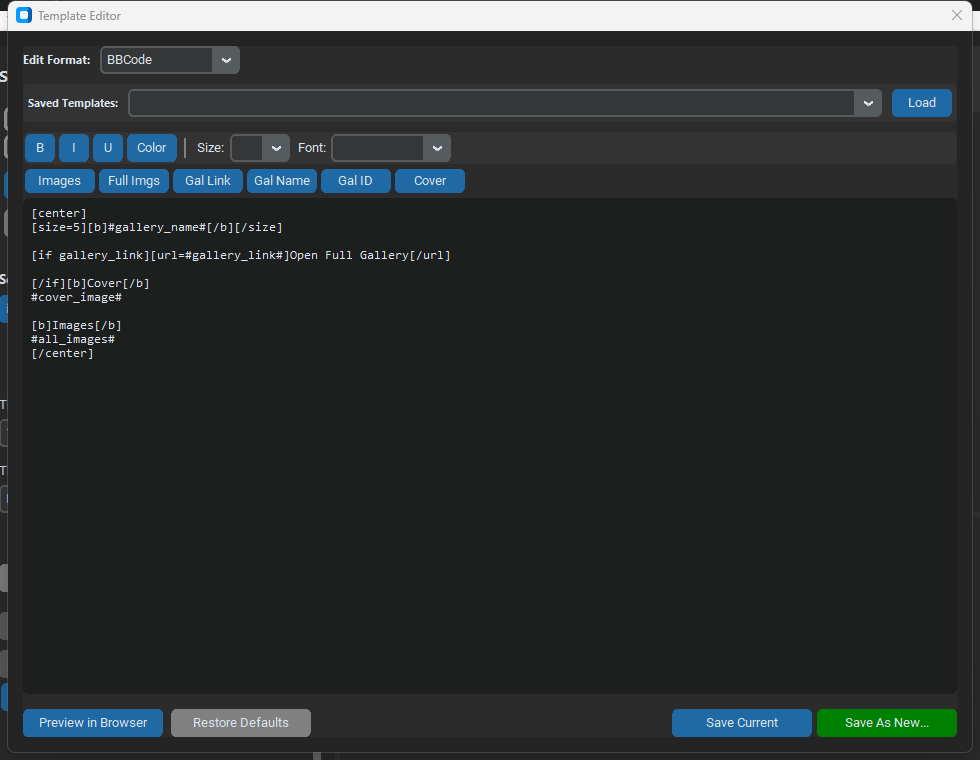
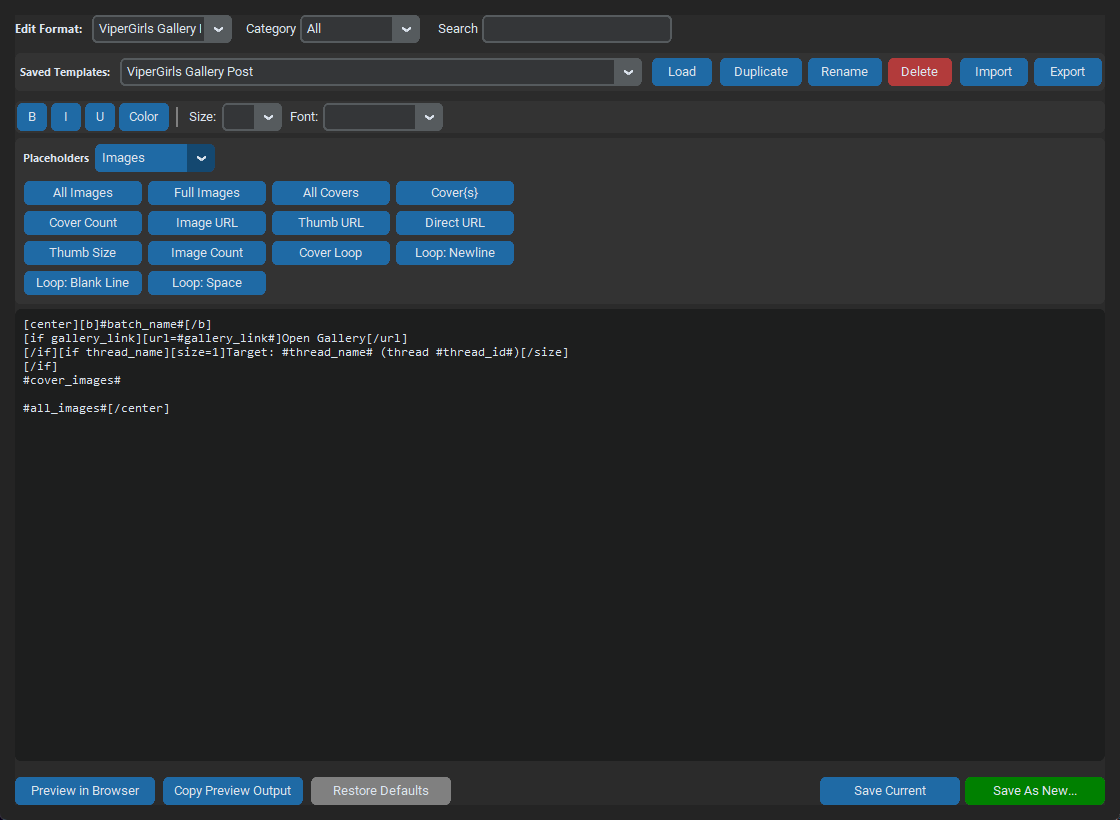
Refresh docs: archive history & release guide
Consolidate and refresh documentation: convert docs/history/DOCUMENTATION.md into a brief historical index and simplify docs/history/README.md to point to current docs; update docs/README.md to note the refreshed Template Editor screenshot; replace the template-editor-v140.png asset with an updated screenshot and adjust its alt text in README.md. Also update docs/releases/RELEASE_PROCESS.md to use placeholder variables (X.Y.Z / YYYY-MM-DD) and modernize the release commit/tag examples. A pytest cache nodeids file was added (test metadata).

Changed region(s): [[0.0, 0.0, 1.0, 0.5145], [0.0, 0.7263, 0.4286, 1.0], [0.6735, 0.9079, 1.0, 0.9987]]

diff --git a/docs/history/README.md b/docs/history/README.md
@@ -1,110 +1,74 @@
 # Documentation Archive
 
-This directory contains historical documentation that provides context about the project's development but is no longer part of active documentation.
+This directory contains historical documentation from earlier development phases. These files are preserved for context, but they are not current user or contributor guidance.
 
-**Archived**: 2026-01-10
-**Reason**: Documentation consolidation to improve maintainability and reduce information overload
+- **Archived:** 2026-01-10
+- **Archive reviewed:** 2026-06-21
+- **Current documentation index:** [docs/README.md](../README.md)
 
----
+## Current Docs To Use Instead
+
+| Need | Current document |
+| --- | --- |
+| Install or use the app | [README.md](../../README.md) |
+| Full user walkthrough | [User Tutorial](../guides/USER_TUTORIAL.md) |
+| Current architecture | [ARCHITECTURE.md](../../ARCHITECTURE.md) |
+| Contributing | [CONTRIBUTING.md](../../CONTRIBUTING.md) |
+| Create or maintain plugins | [Plugin Creation Guide](../guides/PLUGIN_CREATION_GUIDE.md) |
+| Plugin settings schemas | [Schema Plugin Guide](../guides/SCHEMA_PLUGIN_GUIDE.md) |
+| Build/package troubleshooting | [Build Troubleshooting](../guides/BUILD_TROUBLESHOOTING.md) |
+| Release process | [Release Process](../releases/RELEASE_PROCESS.md) |
+| Current change history | [CHANGELOG.md](../../CHANGELOG.md) |
+
+`REMAINING_ISSUES.md` is retained at the repository root as an older tracker/status document. Treat active GitHub issues, pull requests, and `CHANGELOG.md` as the current source of truth for ongoing work.
 
 ## Archived Documents
 
 ### Phase Implementation Summaries
-Historical records of the 6 implementation phases:
-- **PHASE1_IMPLEMENTATION_SUMMARY.md** - Schema-based plugin UI implementation
-- **PHASE2_METADATA_SYSTEM.md** - Plugin metadata system
-- **PHASE3_AUTO_DISCOVERY.md** - Automatic plugin discovery
-- **PHASE4_STANDARD_CONFIG_KEYS.md** - Configuration standardization
-- **PHASE5_HELPER_UTILITIES.md** - Helper function implementations
-- **PHASE6_TESTING_FRAMEWORK.md** - Testing framework setup
+
+- [PHASE1_IMPLEMENTATION_SUMMARY.md](PHASE1_IMPLEMENTATION_SUMMARY.md)
+- [PHASE2_METADATA_SYSTEM.md](PHASE2_METADATA_SYSTEM.md)
+- [PHASE3_AUTO_DISCOVERY.md](PHASE3_AUTO_DISCOVERY.md)
+- [PHASE4_STANDARD_CONFIG_KEYS.md](PHASE4_STANDARD_CONFIG_KEYS.md)
+- [PHASE5_HELPER_UTILITIES.md](PHASE5_HELPER_UTILITIES.md)
+- [PHASE6_TESTING_FRAMEWORK.md](PHASE6_TESTING_FRAMEWORK.md)
 
 ### Analysis Documents
-Deep-dive technical analyses from the development process:
-- **PLUGIN_ARCHITECTURE_ANALYSIS.md** - Detailed plugin system analysis (1026 lines)
-- **CONFIG_KEY_ANALYSIS.md** - Configuration key standardization analysis
-- **PHASE5_PATTERN_ANALYSIS.md** - Code pattern analysis
 
-### Release & PR Documents
-One-time release and pull request documentation:
-- **RELEASE_PREPARATION_SUMMARY.md** - v1.0.0 release preparation
-- **PR_DESCRIPTION.md** - Historical PR description
-- **PR_SUBMISSION_SUMMARY.md** - PR submission guide
-- **BUILD_VERIFICATION_REPORT.md** - Build verification for release
+- [PLUGIN_ARCHITECTURE_ANALYSIS.md](PLUGIN_ARCHITECTURE_ANALYSIS.md)
+- [CONFIG_KEY_ANALYSIS.md](CONFIG_KEY_ANALYSIS.md)
+- [PHASE5_PATTERN_ANALYSIS.md](PHASE5_PATTERN_ANALYSIS.md)
+- [IMPLEMENTATION_ANALYSIS.md](IMPLEMENTATION_ANALYSIS.md)
+- [CODE_REVIEW_VALIDATION.md](CODE_REVIEW_VALIDATION.md)
+
+### Release And Pull Request Documents
+
+- [RELEASE_PREPARATION_SUMMARY.md](RELEASE_PREPARATION_SUMMARY.md)
+- [PR_DESCRIPTION.md](PR_DESCRIPTION.md)
+- [PR_SUBMISSION_SUMMARY.md](PR_SUBMISSION_SUMMARY.md)
+- [BUILD_VERIFICATION_REPORT.md](BUILD_VERIFICATION_REPORT.md)
 
 ### Testing Documentation
-Historical testing documentation:
-- **MOCK_UPLOAD_TESTING.md** - Upload testing procedures
 
-### Critical Fixes
-Documentation of major bug fixes:
-- **STDERR_DEADLOCK_FIX.md** - Resolution of stderr pipe deadlock
-- **CRITICAL_FIX_UPLOAD_DEADLOCK.md** - Upload worker pool deadlock fix
-- **REFACTORING_PLAN.md** - Major refactoring strategy
+- [MOCK_UPLOAD_TESTING.md](MOCK_UPLOAD_TESTING.md)
+- [TEST_RESULTS.md](TEST_RESULTS.md)
 
----
+### Critical Fixes And Refactoring Notes
 
-## Why These Were Archived
+- [STDERR_DEADLOCK_FIX.md](STDERR_DEADLOCK_FIX.md)
+- [CRITICAL_FIX_UPLOAD_DEADLOCK.md](CRITICAL_FIX_UPLOAD_DEADLOCK.md)
+- [DRAG_DROP_FIX_SUMMARY.md](DRAG_DROP_FIX_SUMMARY.md)
+- [REFACTORING_PLAN.md](REFACTORING_PLAN.md)
+- [IMPROVEMENTS.md](IMPROVEMENTS.md)
+- [FEATURES.md](FEATURES.md)
+- [PROJECT_STATUS.md](PROJECT_STATUS.md)
 
-### Historical Context
-These documents provided valuable context during active development but are no longer necessary for:
-- New contributors getting started
-- Users installing and using the application
-- Developers creating new plugins
-- Maintainers making releases
+### Obsolete Index
 
-### Information in Active Docs
-The key information from these documents has been consolidated into:
-- **[ARCHITECTURE.md](../../ARCHITECTURE.md)** - Current architecture (includes v2.4.0 migration status)
-- **[README.md](../../README.md)** - Complete project overview and current state
-- **[PROJECT_STATUS.md](../../PROJECT_STATUS.md)** - Current project health
-- **[REMAINING_ISSUES.md](../../REMAINING_ISSUES.md)** - Technical debt tracker
+- [DOCUMENTATION.md](DOCUMENTATION.md) is an obsolete v1.0-era documentation index kept only as a redirect for old links.
 
-### Documentation Philosophy
-We follow these principles:
-1. **Single Source of Truth** - Avoid duplicating information
-2. **Maintainability** - Fewer docs = easier to keep current
-3. **Discoverability** - Clear navigation via DOCUMENTATION.md
-4. **Historical Preservation** - Archive rather than delete
+## Why These Files Are Archived
 
----
+These documents captured useful context during active development, but many contain old version numbers, old coverage values, old repository names, old plugin registration advice, or old build assumptions. Keeping them here preserves the history without making users or contributors sort through stale guidance.
 
-## Should You Read These?
-
-### ✅ Yes, if you want to:
-- Understand the historical evolution of the architecture
-- Learn about specific problems that were solved during development
-- Research why certain design decisions were made
-- Write a blog post or case study about the project
-
-### ❌ No, if you want to:
-- Get started as a contributor → See [CONTRIBUTING.md](../../CONTRIBUTING.md)
-- Create a plugin → See [PLUGIN_CREATION_GUIDE.md](../../PLUGIN_CREATION_GUIDE.md)
-- Understand current architecture → See [ARCHITECTURE.md](../../ARCHITECTURE.md)
-- Install the application → See [README.md](../../README.md)
-
----
-
-## Document Retention Policy
-
-### These documents are:
-- ✅ Preserved in git history
-- ✅ Still accessible via the repository
-- ✅ Available for reference when needed
-- ✅ No longer cluttering the root directory
-
-### We will NOT delete them because:
-- They provide valuable historical context
-- They document important architectural decisions
-- They explain problem-solving approaches
-- They may be useful for future similar projects
-
----
-
-**For current documentation, see**: [DOCUMENTATION.md](../../DOCUMENTATION.md)
-
-**For project status, see**: [PROJECT_STATUS.md](../../PROJECT_STATUS.md)
-
----
-
-*Archived: 2026-01-10*
-*Maintained by: conniecombs*
+Use this archive when researching why a design changed, how an old bug was fixed, or what earlier implementation phases looked like. For current behavior, use the active docs listed at the top of this file.

diff --git a/docs/history/DOCUMENTATION.md b/docs/history/DOCUMENTATION.md
@@ -1,151 +1,15 @@
-# Documentation Index
+# Historical Documentation Index
 
-**Product Version**: v1.0.0
-**Architecture Version**: v2.4.0
-**Last Updated**: 2026-01-10
+This was the v1.0-era documentation index. It is obsolete and is kept only so old links do not break.
 
-Welcome to Connie's Uploader Ultimate documentation! This index helps you navigate all available documentation.
+Use the current documentation instead:
 
----
+- [Documentation Index](../README.md)
+- [README](../../README.md)
+- [Architecture](../../ARCHITECTURE.md)
+- [Contributing](../../CONTRIBUTING.md)
+- [User Tutorial](../guides/USER_TUTORIAL.md)
+- [Plugin Creation Guide](../guides/PLUGIN_CREATION_GUIDE.md)
+- [Build Troubleshooting](../guides/BUILD_TROUBLESHOOTING.md)
 
-## 🚀 Getting Started
-
-**New users start here:**
-
-1. **[README.md](README.md)** - Complete project overview, features, installation, and usage guide
-2. **[CONTRIBUTING.md](CONTRIBUTING.md)** - Guidelines for contributing to the project
-3. **[CHANGELOG.md](CHANGELOG.md)** - Version history and changes
-
----
-
-## 📚 Core Documentation
-
-### User Guides
-- **[README.md](README.md)** - Main documentation with installation and usage
-  - Installation options (pre-built releases, build from source)
-  - First-time setup and credentials
-  - Basic upload workflow
-  - Gallery management
-  - Template editor
-  - ViperGirls integration
-
-### Developer Guides
-- **[ARCHITECTURE.md](ARCHITECTURE.md)** - System architecture and design decisions
-  - Plugin-driven architecture (v2.4.0)
-  - Generic HTTP runner design
-  - Session management
-  - Migration progress
-- **[PLUGIN_CREATION_GUIDE.md](PLUGIN_CREATION_GUIDE.md)** - How to create new image host plugins
-  - Schema-based plugin UI
-  - HTTP request building
-  - Response parsing
-- **[SCHEMA_PLUGIN_GUIDE.md](SCHEMA_PLUGIN_GUIDE.md)** - Schema-based plugin development guide
-  - Declarative UI schemas
-  - Field types and validation
-  - Advanced patterns
-
-### Operations & Maintenance
-- **[RELEASE_PROCESS.md](RELEASE_PROCESS.md)** - How to create releases
-  - Automated release workflow
-  - Version tagging
-  - Changelog management
-  - Build verification
-- **[RELEASE_NOTES.md](RELEASE_NOTES.md)** - Current release notes (v1.0.0)
-- **[BUILD_TROUBLESHOOTING.md](BUILD_TROUBLESHOOTING.md)** - Build issue solutions
-- **[.github/RELEASE_TEMPLATE.md](.github/RELEASE_TEMPLATE.md)** - GitHub release template
-
----
-
-## 📊 Project Status & Planning
-
-### Current Status
-- **[PROJECT_STATUS.md](PROJECT_STATUS.md)** - Project health report
-  - Overall health: B+ (85/100)
-  - Test coverage: 12.5% (Go), 42 tests (Python)
-  - Security: Zero known CVEs
-  - CI/CD: All workflows passing
-- **[REMAINING_ISSUES.md](REMAINING_ISSUES.md)** - Technical debt tracker
-  - 31 remaining issues
-  - Prioritized by severity (High/Medium/Low)
-  - Effort estimates
-
-### Planning Documents
-- **[IMPROVEMENTS.md](IMPROVEMENTS.md)** - Recommended improvements
-- **[IMPLEMENTATION_ANALYSIS.md](IMPLEMENTATION_ANALYSIS.md)** - Implementation verification
-
----
-
-## 🧪 Testing & Quality
-
-- **[TEST_RESULTS.md](TEST_RESULTS.md)** - Test execution results
-
----
-
-## 📁 Historical Documentation
-
-Historical documentation has been archived to reduce clutter and improve maintainability:
-
-- **[docs/history/README.md](docs/history/README.md)** - Documentation archive index
-  - Phase implementation summaries (6 files)
-  - Technical analysis documents (3 files)
-  - Critical fix documentation (3 files)
-  - Historical release and PR documents (4 files)
-  - Testing documentation (2 files)
-
-**Note**: The archive contains valuable historical context but is not required for current development. See the archive README for details.
-
----
-
-## 📁 Code Archive
-
-Legacy code and implementation history:
-
-- **[archive/README.md](archive/README.md)** - Legacy code archive (451 lines of legacy plugins)
-
----
-
-## 🔗 Quick Reference
-
-### Common Tasks
-- **Installing the app**: See [README.md § Installation](README.md#installation)
-- **Creating a plugin**: See [PLUGIN_CREATION_GUIDE.md](PLUGIN_CREATION_GUIDE.md)
-- **Making a release**: See [RELEASE_PROCESS.md](RELEASE_PROCESS.md)
-- **Contributing code**: See [CONTRIBUTING.md](CONTRIBUTING.md)
-- **Troubleshooting builds**: See [BUILD_TROUBLESHOOTING.md](BUILD_TROUBLESHOOTING.md)
-
-### Project Links
-- **Repository**: https://github.com/conniecombs/GolangVersion
-- **Issues**: https://github.com/conniecombs/GolangVersion/issues
-- **Releases**: https://github.com/conniecombs/GolangVersion/releases
-
----
-
-## 📝 Documentation Notes
-
-### Version Numbering
-This project uses two version schemes:
-- **Product Version** (v1.0.0): Public release version shown in README and releases
-- **Architecture Version** (v2.4.0): Internal architecture iteration tracking
-
-### Documentation Standards
-- All markdown files use GitHub-flavored markdown
-- Code examples use syntax highlighting with language tags
-- File paths use relative links when possible
-- External links use absolute URLs
-
-### Maintenance
-- Documentation is reviewed and updated with each release
-- Outdated documents are moved to the archive
-- README.md is the single source of truth for product information
-
----
-
-**Questions or Issues?**
-- Check [REMAINING_ISSUES.md](REMAINING_ISSUES.md) for known issues
-- Review [PROJECT_STATUS.md](PROJECT_STATUS.md) for current project health
-- Open an issue on GitHub for new problems or questions
-
----
-
-*Last Updated: 2026-01-10*
-*Maintained by: conniecombs*
+The rest of `docs/history/` contains historical notes and should not be treated as current project guidance.

diff --git a/docs/releases/RELEASE_PROCESS.md b/docs/releases/RELEASE_PROCESS.md
@@ -43,21 +43,20 @@ This is the primary method for creating releases.
 Add a new version section at the top of `CHANGELOG.md`:
 
 ```markdown
-## [1.4.0] - 2026-06-20
+## [X.Y.Z] - YYYY-MM-DD
 
 ### Added
-- Task-oriented empty, checks, activity, and completion states
-- Safer upload worker and thread-limit controls
+- Feature summary
 
 ### Fixed
-- Worker counts and upload thread limits clamp to supported ranges
+- Fix summary
 ```
 
 **Step 2: Commit Changes**
 
 ```bash
-git add CHANGELOG.md README.md ARCHITECTURE.md REMAINING_ISSUES.md CONTRIBUTING.md docs/README.md docs/guides/BUILD_TROUBLESHOOTING.md docs/guides/PLUGIN_CREATION_GUIDE.md docs/releases/RELEASE_NOTES.md docs/releases/RELEASE_NOTES_v1.4.0.md docs/releases/RELEASE_PROCESS.md
-git commit -m "Prepare release v1.4.0"
+git add CHANGELOG.md README.md ARCHITECTURE.md CONTRIBUTING.md docs/README.md docs/guides docs/releases/RELEASE_NOTES.md docs/releases/RELEASE_NOTES_vX.Y.Z.md docs/releases/RELEASE_PROCESS.md
+git commit -m "Prepare release vX.Y.Z"
 git push origin main
 ```
 
@@ -65,10 +64,10 @@ git push origin main
 
 ```bash
 # Create an annotated tag
-git tag -a v1.4.0 -m "Release v1.4.0"
+git tag -a vX.Y.Z -m "Release vX.Y.Z"
 
 # Push the tag to trigger the release workflow
-git push origin v1.4.0
+git push origin vX.Y.Z
 ```
 
 **Step 4: Monitor the Release**
@@ -83,7 +82,7 @@ You can also trigger a release manually from the GitHub UI:
 
 1. Go to **Actions** → **Release - Build and Publish**
 2. Click **Run workflow**
-3. Enter the version (e.g., `v1.4.0`)
+3. Enter the version (e.g., `vX.Y.Z`)
 4. Click **Run workflow**
 
 This is useful for:

diff --git a/README.md b/README.md
@@ -55,7 +55,7 @@ Completion summaries show uploaded and failed counts, generated output files, cl
 
 The Template Editor lets users build BBCode, Markdown, HTML, ViperGirls posting, and custom output formats with built-in template categories, search, import/export, validation, duplicate/rename/delete actions, categorized placeholders, nested conditionals, custom `[for image]` loops, and previews that include rendered output plus raw generated text.
 
-![Template Editor with BBCode formatting toolbar, gallery placeholders, editable template text, preview, restore, save, and save-as-new controls](docs/assets/screenshots/template-editor-v140.png)
+![Template Editor with template search, duplicate rename delete import export actions, categorized image placeholders including Cover{s}, editable template text, preview, copy preview, restore, save, and save-as-new controls](docs/assets/screenshots/template-editor-v140.png)
 
 ### Manage Galleries With Clear State
 

diff --git a/docs/README.md b/docs/README.md
@@ -103,6 +103,7 @@ docs/
 - Updated contributor and plugin docs for automatic plugin discovery, current schema settings, current build commands, and current test commands.
 - Updated build troubleshooting for PyInstaller hooks, Tkinter/Tcl bundling, plugin bundling, and current Go/Python toolchain expectations.
 - Added documentation for current Template Manager, cover, ViperGirls, repository cleanup, and user tutorial improvements in `CHANGELOG.md`.
+- Refreshed the Template Editor screenshot to show search, template actions, categorized placeholders, and current cover controls.
 
 ### 2026-06-20
 
